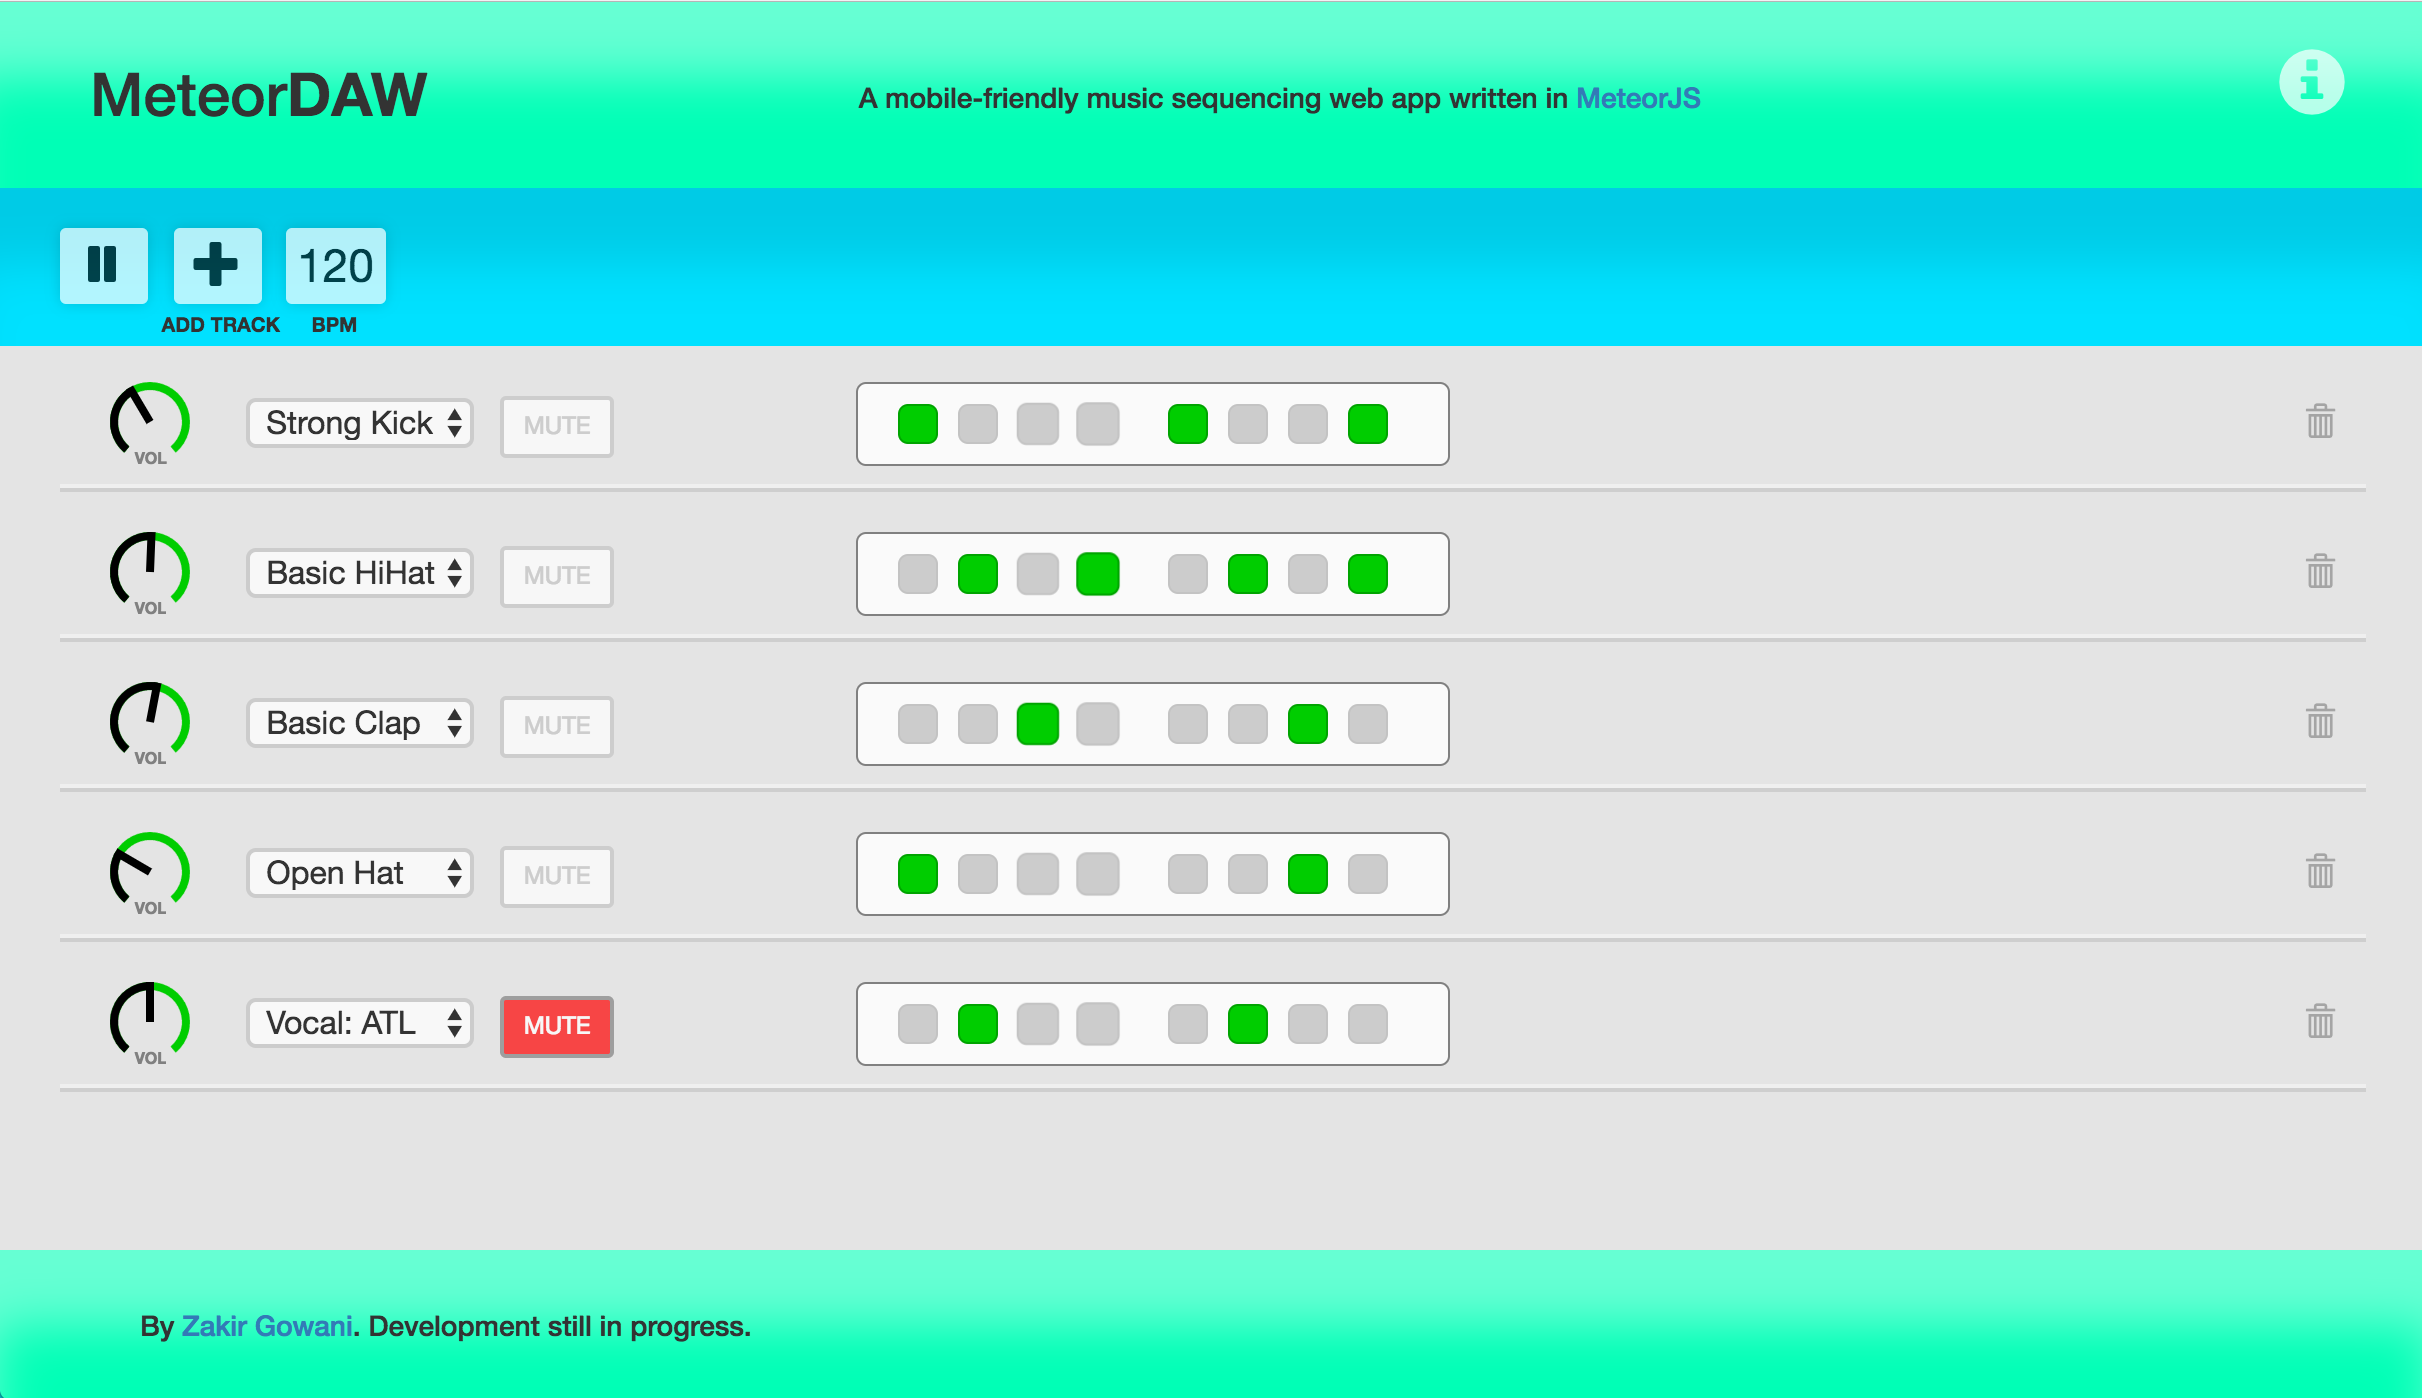
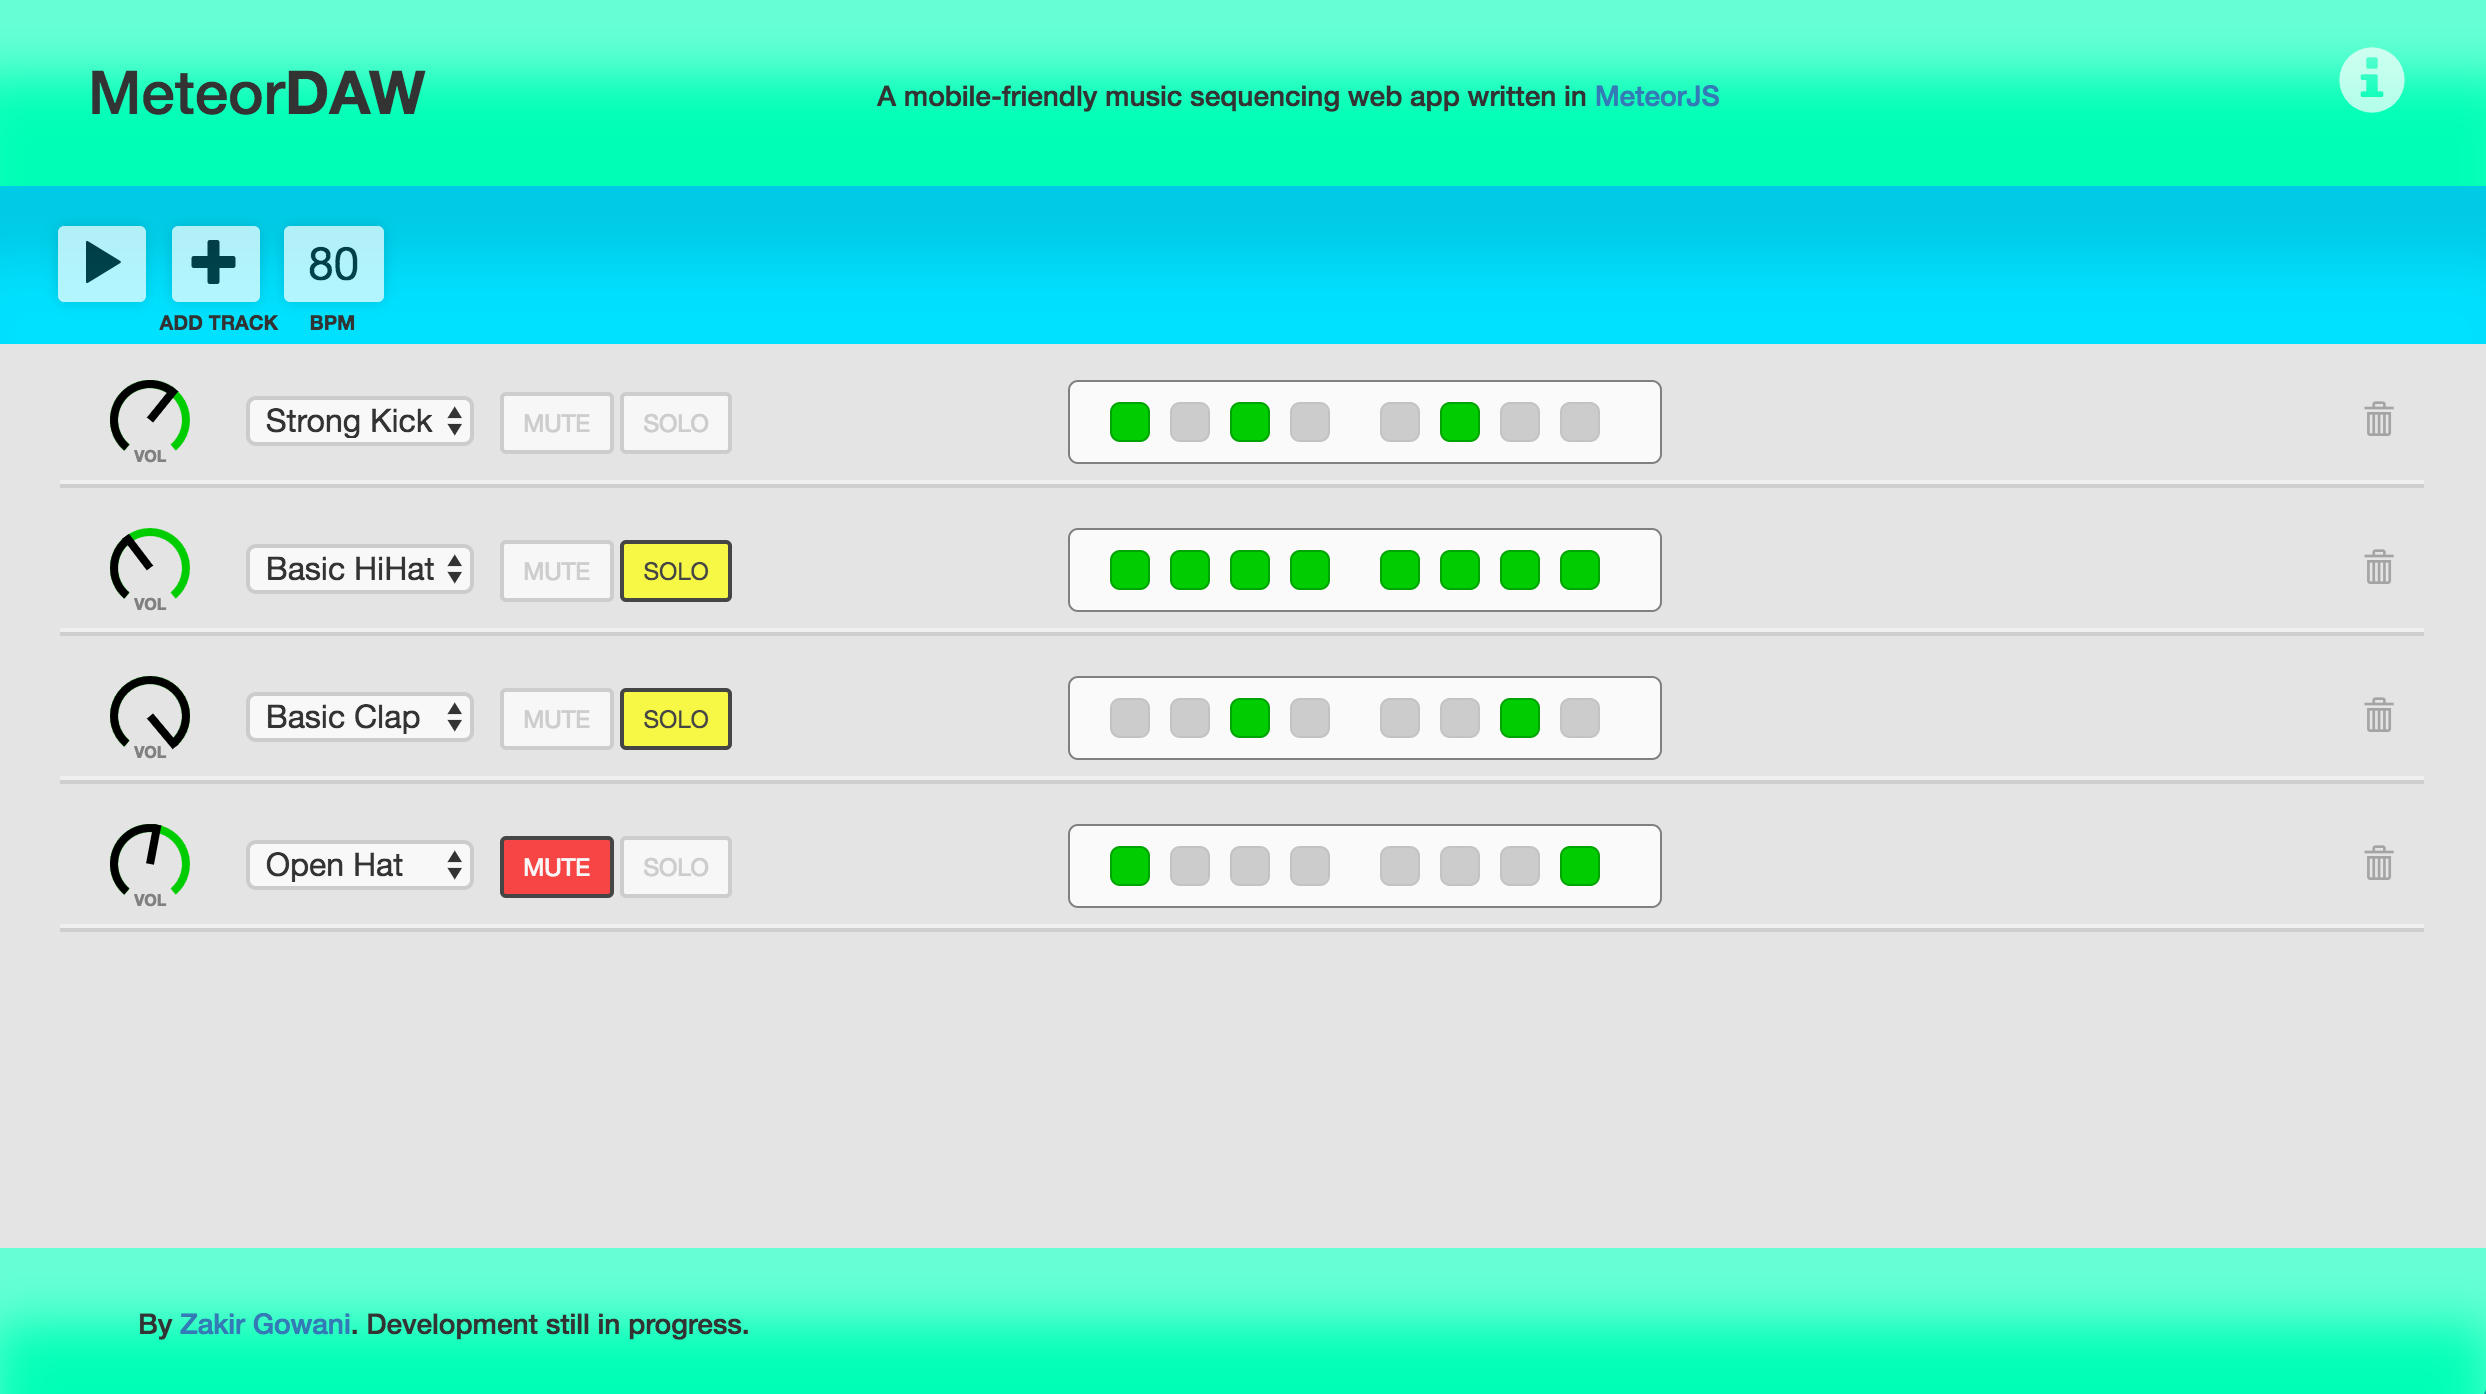
Updated screenshots and README feature goals

diff --git a/client/application/application.js b/client/application/application.js
@@ -96,10 +96,8 @@ function trackIsDisabled(selectedSound) {
 
 // Plays the sound associated with a given track
 function playSound(selectedSoundId) {
-    var audioTag = $('#audio-' + selectedSoundId);
-    if (!audioTag.paused) {
-        audioTag.prop('currentTime', 0);
-    }
+    var audioTag = audioTagFor(selectedSoundId)
+    audioTag.prop('currentTime', 0);
     audioTag.trigger('play');
 }
 
@@ -172,13 +170,15 @@ Template.track.events({
 });
 
 // Helpers to be moved to a new file:
+function audioTagFor(selectedSoundId) {
+    return $('#audio-' + selectedSoundId);
+}
+
 // Checks if solo mode should be turned off (none of the tracks are soloed)
 function updateSoloMode(){
-    console.log('updateSoloMode called');
     var soundsSoloed = SelectedSounds.find({'soloed' : true}).count();
     if(soundsSoloed == 0) {
         inSoloMode = false;
         inSoloModeTracker.changed();
-        console.log('soloMode now false');
     }
 }

diff --git a/client/application/track.html b/client/application/track.html
@@ -14,7 +14,7 @@
             </select>
             <button class="text-button mute-button {{#if muted}}active{{else}}inactive{{/if}}" id="{{_id}}">M<span class="hidden-sm hidden-xs">UTE</span></button>
             <button class="text-button solo-button {{#if soloed}}active{{else}}inactive{{/if}}" id="{{_id}}">S<span class="hidden-sm hidden-xs">OLO</span></button>
-            <!-- <button class="text-button inactive" id="solo-button">S<span class="hidden-xs">OLO</span></button> -->               
+<!--             <span class="track-light">{{trackIsPlaying}}</span> -->
         </div>
         <div class="track-sequencer col-sm-7 col-xs-12">
             <div class="sequencer-wrapper">

diff --git a/README.md b/README.md
@@ -7,7 +7,7 @@
 
 ##### Features:
 - basic sequencer functionality: program rhythms at a range of tempos with sound presets
-- track controls: mute, volume knob, sequencer steps, sound selection
+- track controls: mute, solo, volume knob, sequencer steps, sound selection
 - master controls: play, pause, add new tracks, adjust tempo
 - tempo can be changed during playback
 - responsive layout, works well on iPhone 5 (320px)
@@ -23,11 +23,10 @@ You may be prompted to install additional packages.
 Once the app is running, navigate to http://localhost:3000/ in your browser.
 
 ##### Upcoming features:
-- sequences can be bounced & exported to wav files
+- integration of Web Audio API for easy master volume, track panning, and sequence export to wav
 - allow for user-uploaded sounds for sequencing
 
 ##### Feature goals for v2.0:
-- panning knobs on individual tracks
 - allow for user-uploaded audio tracks with preview waveforms
 - ability to download/reupload sequencer state as a text file of human-readable metadata
 - integration of <a href="http://sox.sourceforge.net/Docs/FAQ" target="_blank">SoX</a> for VST-like track effects
